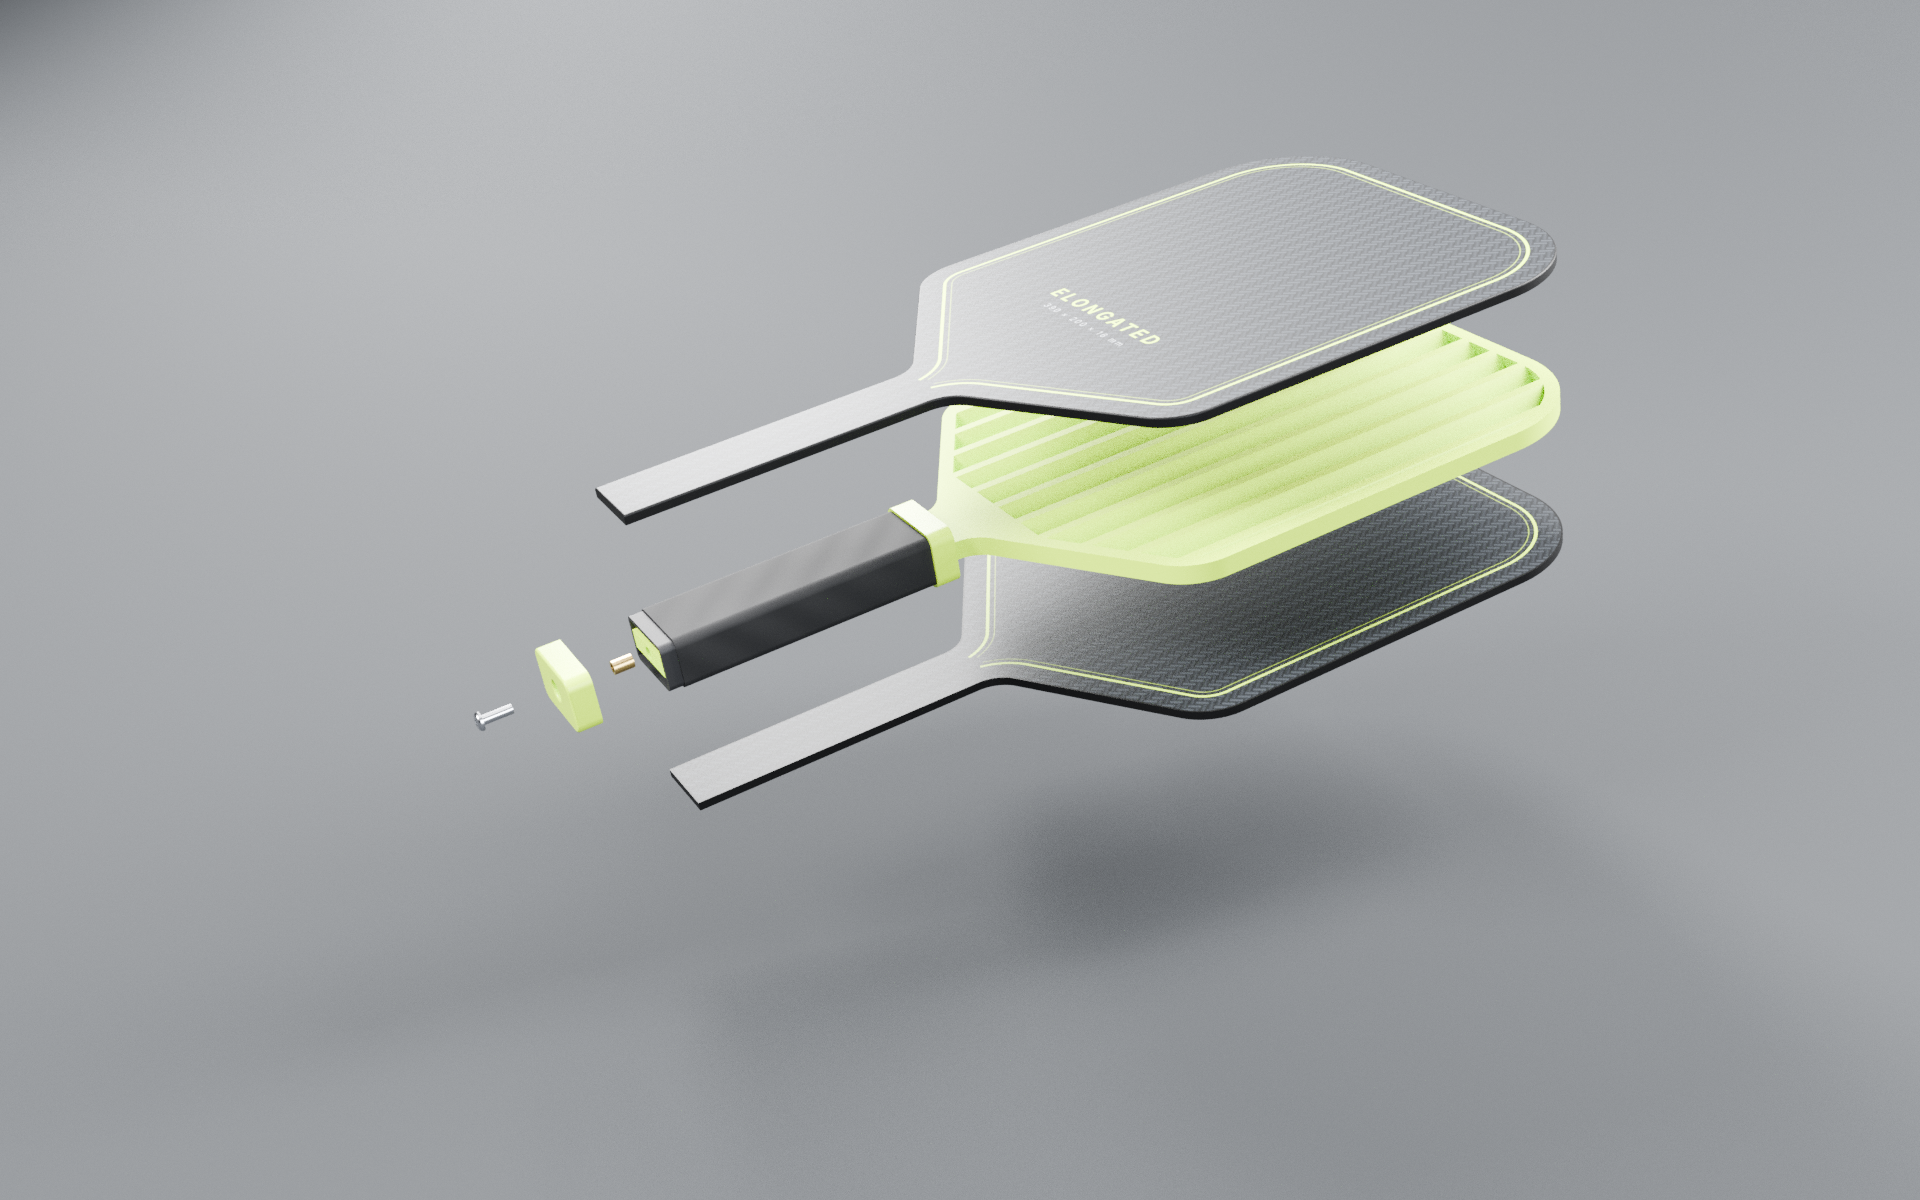
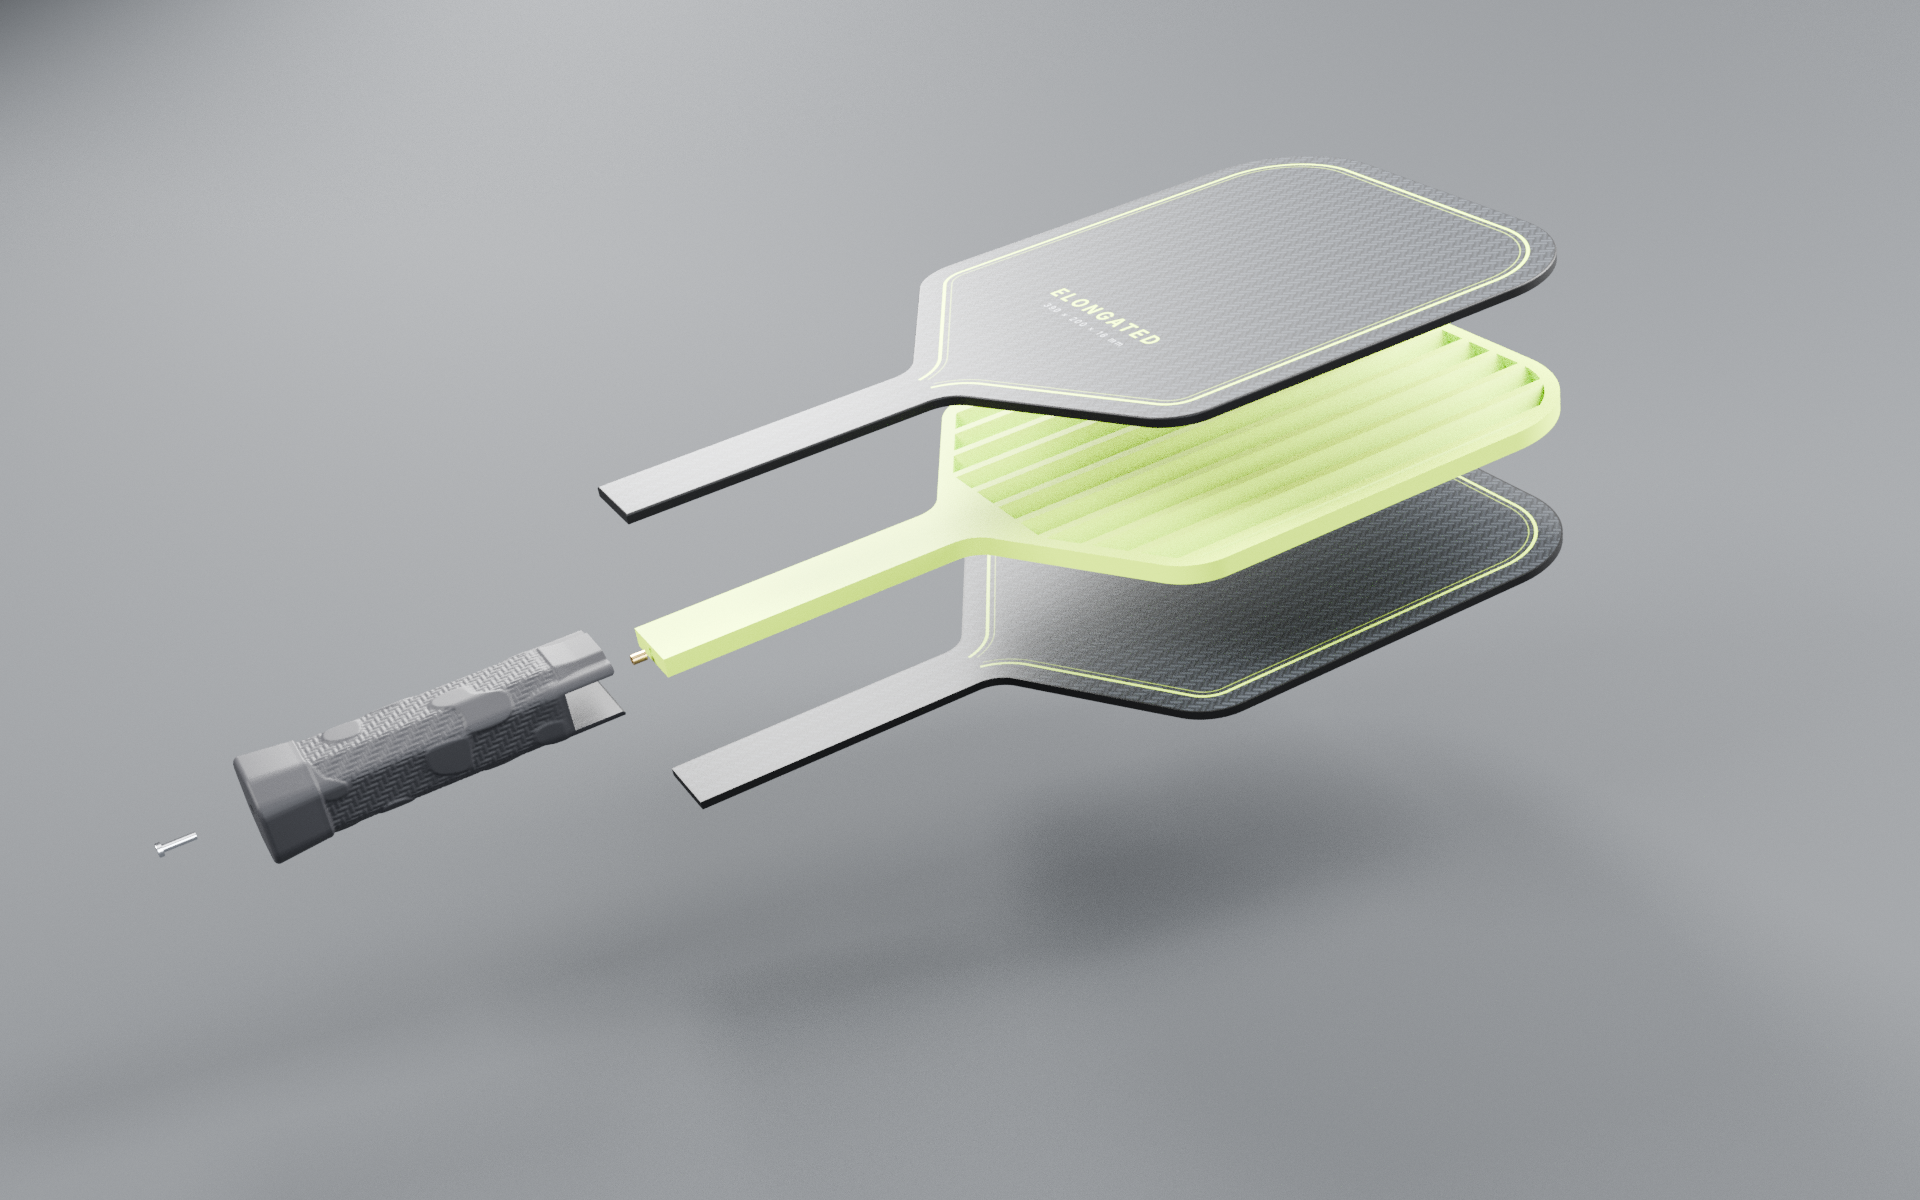
REV C renders: exploded views, handle close-up and the two-piece rib support
- Exploded views of both paddles with the printed grip (CARBON MATRIX / VORTEX GRIP),
  the DIN 7984 M3 screw and the heat-set insert.
- Handle close-up with the grip pulled off: slot mouth, end-wall slits, M3 insert.
- New shot: the two rib-support print pieces lying flat, with the dovetail joint at
  y = 240 opened up.

Claude-Session: https://claude.ai/code/session_01PimKjvd9svCa1nzrj4RgRR

Changed region(s): [[0.125, 0.4008, 0.5, 0.74], [0.3438, 0.6475, 0.375, 0.6783], [0.3125, 0.4008, 0.3438, 0.4317]]

diff --git a/paddle-design/paddle/render3d.py b/paddle-design/paddle/render3d.py
@@ -200,7 +200,7 @@ def shot_scene(shot: str, meshes: dict, cut: dict, pieces: dict | None = None) -
         key = shot.split("_", 1)[1]
         return ([dict(name="X", location=(0.02, -0.02, 0.135), rotation=(10, 0, -32), parts=parts(key, EXPLODE))],
                 dict(location=(0.50, -0.62, 0.52), target=(0.075, 0.13, 0.11), lens=42), (0.05, 0.12, 0.12))
-    if shot == "handle":                          # grip pulled off the handle: slot mouth, slits, insert, screw
+    if shot == "handle":                          # grip pulled off the handle: slot mouth, slits, insert
         return ([dict(name="H", location=(0.0, 0.0, 0.0184), rotation=(0, 0, -60),
                       parts=parts("elongated", HANDLE_EXPLODE))],
                 dict(location=(0.135, -0.269, 0.228), target=(-0.032, -0.022, 0.012), lens=45,

diff --git a/paddle-design/README.md b/paddle-design/README.md
@@ -33,7 +33,7 @@ towards the USA Pickleball limits, so keep it within the margins above.
 | | |
 |---|---|
 | ![Cutaway](output/render/paddles_3d_cutaway.png) | ![Exploded view](output/render/paddles_3d_exploded_elongated.png) |
-| ![Exploded view, hybrid](output/render/paddles_3d_exploded_hybrid.png) | ![Printed grip, M3 screw and insert](output/render/paddles_3d_handle.png) |
+| ![Exploded view, hybrid](output/render/paddles_3d_exploded_hybrid.png) | ![Printed grip pulled off the handle: slot, end-wall slits and the M3 insert](output/render/paddles_3d_handle.png) |
 
 - **Face sheets.** Two identical 4 mm woven carbon/epoxy plates, cut to the body profile
   (`*_profile.dxf`, template sheet 2). Outer edges R0.8.
@@ -161,7 +161,7 @@ What the results mean:
 | `output/cad/<design>_assembly.step` | 3-D assembly: sheets, rib support, screw and insert (named solids) |
 | `output/cad/<design>_assembly.3mf` | The same assembly with the printed grip (a mesh, so it is not in the STEP) |
 | `output/cad/<design>_rib_core.step` / `.stl`, `output/cad/<design>_<part>.stl` | The rib support as one piece, and every other part, in mm |
-| `output/render/paddles_3d_*.png` | Photoreal renders: hero, cutaway, exploded (each design), handle close-up, two-piece rib support |
+| `output/render/paddles_3d_*.png` | Photoreal renders: hero, cutaway, exploded with the grip and screw (each design), handle close-up, two-piece rib support |
 | `output/render/paddles_2d_render.(png/svg)` | 2-D presentation render (face and 3/4 views) |
 | `output/fea/paddle_stress_report.pdf`, `output/fea/fea_*.png` | Stress report and its figures |
 | `analysis/fea/*.json`, `analysis/mass_properties.json` | Raw results: peak stresses with locations, reserve factors, bond profile, frequencies, masses |
